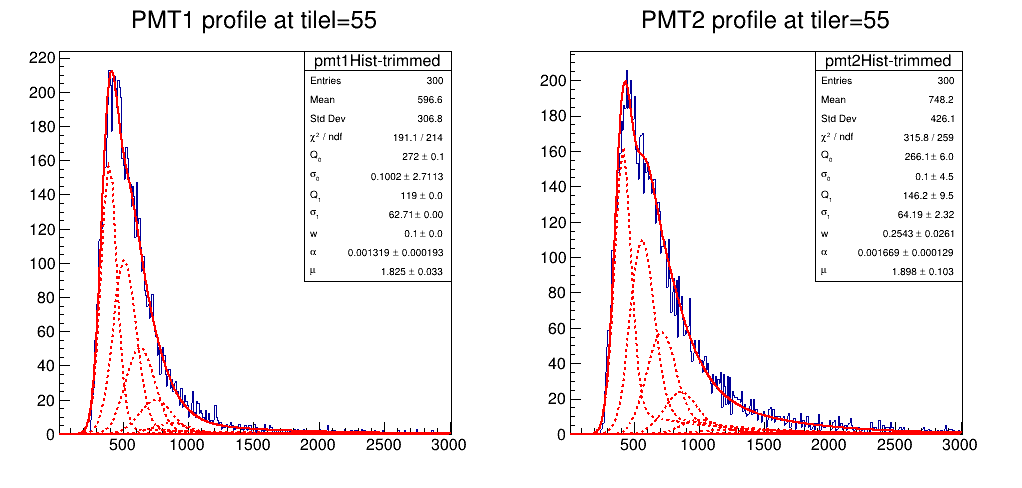
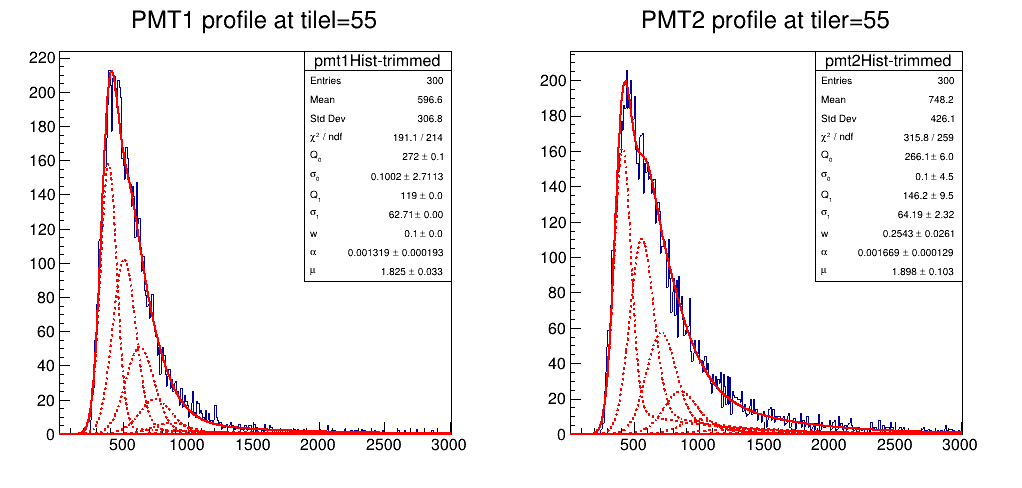
Moved some parameters to command-line arguments

diff --git a/src/helper/TreeHelper.cpp b/src/helper/TreeHelper.cpp
@@ -20,7 +20,7 @@
 TreeHelper::TreeHelper() {
 	fileName = new TString();
 	myFile = new TFile();
-	myTree = new TTree();
+	myTree = NULL;
 }
 
 TreeHelper::~TreeHelper(){}
@@ -51,6 +51,9 @@ int TreeHelper::init(const char* fileName){
 
 	// Read Tree from ROOT file
 	myFile->GetObject(Constants::getInstance()->parameters.treeName, myTree); // or gDirectory->GetObject("T",MyTree);
+	if (myTree == NULL){
+		// If the tree with specified mane dows not exist - pick a first occurance of
+	}
 	myTree->Print();     // Print tree branches
 	// myTree->Scan("");    // Print tree columns
 
@@ -58,12 +61,15 @@ int TreeHelper::init(const char* fileName){
 }
 
 void TreeHelper::plotTreeProfiles(){
+	Int_t chMin = Constants::getInstance()->parameters.chMin;
+	Int_t chMax = Constants::getInstance()->parameters.chMax;
+	Int_t chBins = Constants::getInstance()->parameters.chBins;
 	// Construct histograms for the TTree profiles (ch_1 and ch_2)
-	TH1F* ch1Hist = new TH1F("ch1Hist", "Channel profile for PMT1", Constants::CH_BINS, Constants::CH_MIN_VAL, Constants::CH_MAX_VAL);
+	TH1F* ch1Hist = new TH1F("ch1Hist", "Channel profile for PMT1", chBins, chMin, chMax);
 	ch1Hist->GetXaxis()->SetTitle("Events");
 	ch1Hist->SetStats(0);
 	ch1Hist->GetYaxis()->SetTitle("Channel (ch_1)");
-	TH1F* ch2Hist = new TH1F("ch2Hist", "Channel profile for PMT2", Constants::CH_BINS, Constants::CH_MIN_VAL, Constants::CH_MAX_VAL);
+	TH1F* ch2Hist = new TH1F("ch2Hist", "Channel profile for PMT2", chBins, chMin, chMax);
 	ch2Hist->GetXaxis()->SetTitle("Events");
 	ch2Hist->SetStats(0);
 	ch2Hist->GetYaxis()->SetTitle("Channel (ch_2)");
@@ -98,28 +104,35 @@ void TreeHelper::plotTreeProfiles(){
 }
 
 void TreeHelper::plotTree(const char* fileName){
+	Int_t tileMin = Constants::getInstance()->parameters.tileMin;
+	Int_t tileMax = Constants::getInstance()->parameters.tileMax;
+	Int_t tileBins = tileMax - tileMin;
+	Int_t chMin = Constants::getInstance()->parameters.chMin;
+	Int_t chMax = Constants::getInstance()->parameters.chMax;
+	Int_t chBins = Constants::getInstance()->parameters.chBins;
+
 	// Construct histograms (ch_1:tilel) and (ch_2:tiler) from the TTree
 	TH2F* ch1TilelHist = new TH2F("ch1TilelHist", "Channel vs Tile for PMT1",
-								  Constants::TILE_BINS, Constants::TILE_MIN, Constants::TILE_MAX,
-								  Constants::CH_BINS, Constants::CH_MIN_VAL, Constants::CH_MAX_VAL);
+								  tileBins, tileMin, tileMax,
+								  chBins, chMin, chMax);
 	ch1TilelHist->GetXaxis()->SetTitle("Tile (tilel)");
 	ch1TilelHist->GetYaxis()->SetTitle("Channel (ch_1)");
 	ch1TilelHist->SetStats(0);
 	TH2F* ch2TilerHist = new TH2F("ch2TilerHist", "Channel vs Tile for PMT2",
-			   	   	   	   	   	  Constants::TILE_BINS, Constants::TILE_MIN, Constants::TILE_MAX,
-								  Constants::CH_BINS, Constants::CH_MIN_VAL, Constants::CH_MAX_VAL);
+								  tileBins, tileMin, tileMax,
+								  chBins, chMin, chMax);
 	ch2TilerHist->GetXaxis()->SetTitle("Tile (tiler)");
 	ch2TilerHist->GetYaxis()->SetTitle("Channel (ch_2)");
 	ch2TilerHist->SetStats(0);
 	// Construct histograms (amp_1:tilel) and (amp_2:tiler) from the TTree
 	TH2F* amp1TilelHist = new TH2F("amp1TilelHist", "Amplitude vs Tile for PMT1",
-			  	  	  	  	  	   Constants::TILE_BINS, Constants::TILE_MIN, Constants::TILE_MAX,
+								   tileBins, tileMin, tileMax,
 								   Constants::AMP_MAX-Constants::AMP_MIN, Constants::AMP_MIN, Constants::AMP_MAX);
 	amp1TilelHist->GetXaxis()->SetTitle("Tile (tilel)");
 	amp1TilelHist->GetYaxis()->SetTitle("Amplitude (amp_1)");
 	amp1TilelHist->SetStats(0);
 	TH2F* amp2TilerHist = new TH2F("amp2TilerHist", "Amplitude vs Tile for PMT2",
-								   Constants::TILE_BINS, Constants::TILE_MIN, Constants::TILE_MAX,
+								   tileBins, tileMin, tileMax,
 								   Constants::AMP_MAX-Constants::AMP_MIN, Constants::AMP_MIN, Constants::AMP_MAX);
 	amp2TilerHist->GetXaxis()->SetTitle("Tile (tiler)");
 	amp2TilerHist->GetYaxis()->SetTitle("Amplitude (amp_2)");

diff --git a/src/main.cpp b/src/main.cpp
@@ -28,6 +28,10 @@
 #include "fit/FuncSRealFFTNoTerm0.h"
 
 int run(const char* fileName) {
+	// TODO: Determine if its a prototype spectrum or real Kaon spectrum
+
+
+
 	// Instantiate the Tree and read it from the input file
 	if (TreeHelper::getInstance()->init(fileName) == -1){
 		return -1;
@@ -43,12 +47,15 @@ int run(const char* fileName) {
 	// TreeHelper::getInstance()->plotTreeProfiles();
 
 	// Prepare histograms for the PMT projection spectra
+	Int_t chMin = Constants::getInstance()->parameters.chMin;
+	Int_t chMax = Constants::getInstance()->parameters.chMax;
+	Int_t chBins = Constants::getInstance()->parameters.chBins;
 	TString pmt1HistTitle = TString::Format("PMT1 profile at tilel=%d", Constants::getInstance()->parameters.tileProfile);
-	TH1* pmt1Hist = new TH1D("pmt1Hist", pmt1HistTitle, Constants::CH_BINS, Constants::CH_MIN_VAL, Constants::CH_MAX_VAL);
+	TH1* pmt1Hist = new TH1D("pmt1Hist", pmt1HistTitle, chBins, chMin, chMax);
 	pmt1Hist->GetXaxis()->SetTitle("Channel (ch_1)");
 	pmt1Hist->GetYaxis()->SetTitle("Counts");
 	TString pmt2HistTitle = TString::Format("PMT2 profile at tiler=%d", Constants::getInstance()->parameters.tileProfile);
-	TH1* pmt2Hist = new TH1D("pmt2Hist", pmt2HistTitle, Constants::CH_BINS, Constants::CH_MIN_VAL, Constants::CH_MAX_VAL);
+	TH1* pmt2Hist = new TH1D("pmt2Hist", pmt2HistTitle, chBins, chMin, chMax);
 	pmt2Hist->GetXaxis()->SetTitle("Channel (ch_2)");
 	pmt2Hist->GetYaxis()->SetTitle("Counts");
 
@@ -76,15 +83,18 @@ int run(const char* fileName) {
 		pmtsCanvas->SaveAs(pngFilePath.Data());
 	}
 
-	// Trim PMT spectra to remove zero bin noise
-	// Select min channel value to skip the stretched noise bin
-	Int_t chMinVal = 1 * (Constants::CH_MAX_VAL - Constants::CH_MIN_VAL) / Constants::CH_BINS + 5;
-	// chMinVal = 150;
-	TH1* pmt1HistFit = HistUtils::cutHistogram(pmt1Hist, chMinVal, Constants::CH_FIT_MAX_VAL);
-	TH1* pmt2HistFit = HistUtils::cutHistogram(pmt2Hist, chMinVal, Constants::CH_FIT_MAX_VAL);
-
 	// Fit and plot PMT spectra
 	FitType fitType = Constants::getInstance()->parameters.fitType;
+	if (fitType == FitType::none) return 0;
+
+	// Trim PMT spectra to remove zero bin noise
+	// Select min channel value to skip the stretched noise bin
+	// Int_t chMinVal = 1 * (Constants::CH_MAX_VAL - Constants::CH_MIN_VAL) / Constants::CH_BINS + 5;
+	// chMinVal = 150;
+	Int_t chFitMin = Constants::getInstance()->parameters.chFitMin;
+	Int_t chFitMax = Constants::getInstance()->parameters.chFitMax;
+	TH1* pmt1HistFit = HistUtils::cutHistogram(pmt1Hist, chFitMin, chFitMax);
+	TH1* pmt2HistFit = HistUtils::cutHistogram(pmt2Hist, chFitMin, chFitMax);
 
 	const char* fitKind;
 	if (fitType == FitType::root) fitKind = "ROOT Fit";

diff --git a/src/model/Constants.cpp b/src/model/Constants.cpp
@@ -46,18 +46,6 @@ const char* Constants::APPLICATION_NAME = "KaonLT Fit";
 // Amplitude |  4096 |                0 |           4096 |
 // ----------+-------+------------------+----------------+
 
-const Int_t Constants::TILE_BINS = 145;
-const Int_t Constants::TILE_MIN = 1;
-const Int_t Constants::TILE_MAX = 146;
-
-const Int_t Constants::CH_BINS = 2100;
-const Int_t Constants::CH_MIN_VAL = -1000;
-const Int_t Constants::CH_MAX_VAL = 20000;
-
-const Int_t Constants::CH_FIT_MIN_VAL = 1;
-const Int_t Constants::CH_FIT_MAX_VAL = 3000;
-
-
 const Int_t Constants::AMP_MIN = 0;
 const Int_t Constants::AMP_MAX = 4096;
 
@@ -135,6 +123,39 @@ void Constants::parseParameters(int argc, char* argv[]){
 			// Name of the file with parameters
 			parameters.fitParamsFileName = pair.second;
 		}
+		else if (pair.first ==  "tile-min"){
+			// Number of terms in the fitting function
+			parameters.tileMin = atoi(pair.second);
+		}
+		else if (pair.first ==  "tile-max"){
+			// Number of terms in the fitting function
+			parameters.tileMax = atoi(pair.second);
+		}
+		else if (pair.first ==  "ch-min"){
+			// Number of terms in the fitting function
+			parameters.chMin = atoi(pair.second);
+		}
+		else if (pair.first ==  "ch-max"){
+			// Number of terms in the fitting function
+			parameters.chMax = atoi(pair.second);
+		}
+		else if (pair.first ==  "ch-bins"){
+			// Number of terms in the fitting function
+			parameters.chBins = atoi(pair.second);
+		}
+		else if (pair.first ==  "ch-fit-min"){
+			// Number of terms in the fitting function
+			parameters.chFitMin = atoi(pair.second);
+		}
+		else if (pair.first ==  "ch-fit-max"){
+			// Number of terms in the fitting function
+			parameters.chFitMax = atoi(pair.second);
+		}
 		std::cout << "\t" << pair.first << ": " << pair.second << std::endl;
 	}
+
+	// Tweak default parameters values after parameters were processed
+	if (parameters.chBins == 0) parameters.chBins = parameters.chMax - parameters.chMin;
+	if (parameters.chFitMin == 0) parameters.chFitMin = parameters.chMin;
+	if (parameters.chFitMax == 0) parameters.chFitMax = parameters.chMax;
 }

diff --git a/src/model/Constants.h b/src/model/Constants.h
@@ -25,6 +25,7 @@
 
 enum class FitType {
 	test,
+	none,
 	root,
 	rootConv,
 	rooFit
@@ -36,7 +37,7 @@ enum class Minimization {
 };
 
 struct Parameters {
-	TString treeName = "tree1;3";
+	TString treeName = "tree1";
 	Float_t plotTree = kTRUE;
 	Float_t plotProfiles = kTRUE;
 	Int_t tileProfile = 55;
@@ -46,6 +47,14 @@ struct Parameters {
 	Minimization minimize = Minimization::chi2;
 	TList* inputFiles = new TList();
 	TString fitParamsFileName = "fit-parameters.txt";
+	// For ploting tree
+	Int_t tileMin = 1;
+	Int_t tileMax = 146;
+	Int_t chMin = -1000;
+	Int_t chMax = 20000;
+	Int_t chBins = 0;
+	Int_t chFitMin = 0;
+	Int_t chFitMax = 0;
 };
 
 class Constants {
@@ -53,17 +62,6 @@ class Constants {
 	static Constants* getInstance();
 
 	static const char* APPLICATION_NAME;
-
-	static const Int_t TILE_BINS;
-	static const Int_t TILE_MIN;
-	static const Int_t TILE_MAX;
-
-	static const Int_t CH_BINS;
-	static const Int_t CH_MIN_VAL;
-	static const Int_t CH_MAX_VAL;
-
-	static const Int_t CH_FIT_MIN_VAL;
-	static const Int_t CH_FIT_MAX_VAL;
 
 	static const Int_t AMP_MIN;
 	static const Int_t AMP_MAX;

diff --git a/src/utils/FitUtils.cpp b/src/utils/FitUtils.cpp
@@ -376,6 +376,7 @@ void FitUtils::doFit(TH1* hist, FitParameters* pars, AbsComponentFunc* funcObjec
 				f->SetParameters(fitParameters);
 			}
 			f->SetLineStyle(ELineStyle::kDashed);
+			f->SetNpx(Constants::N_PX);
 			f->Draw("SAME");
 		} else {
 			std::cout << "Error getting the component " << n << std::endl;
